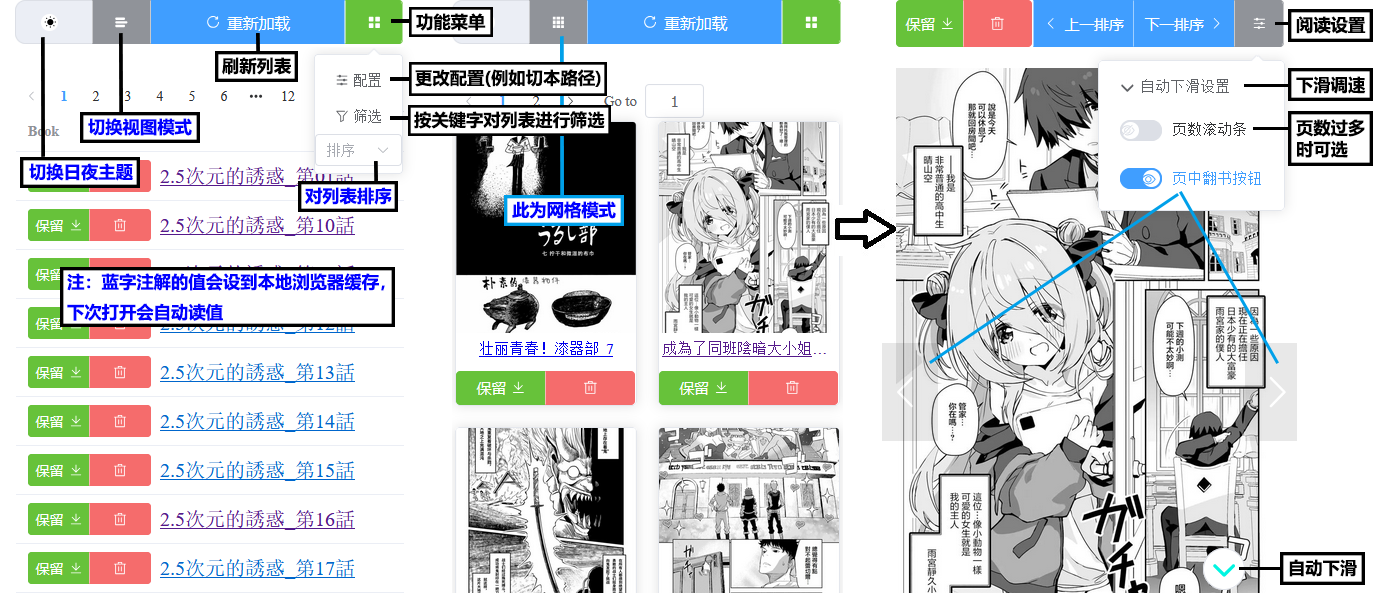
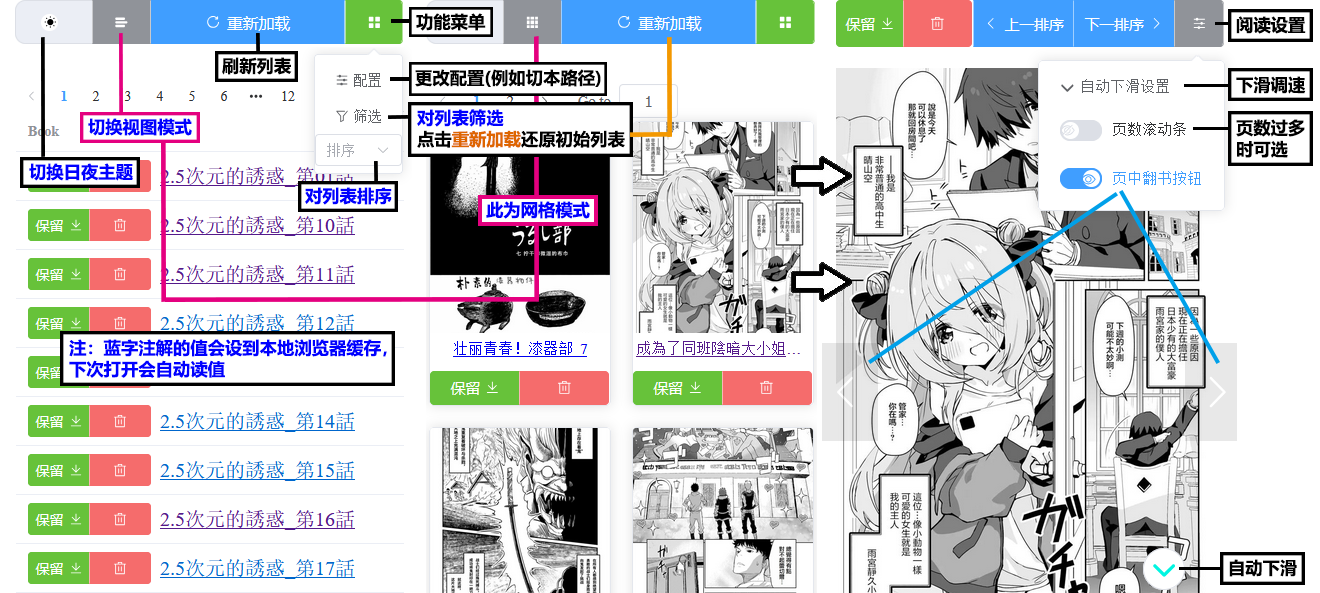
improve: filter turn to localStorage

diff --git a/frontend/src/view/books_list.vue b/frontend/src/view/books_list.vue
@@ -2,7 +2,7 @@
     <el-container>
       <el-header>
         <TopBtnGroup :reload="reload" :items="bookList" :filtered-items="filteredBookList" :handle-conf="handleConf" 
-                     v-model="isListMode" @send_sort="sv_sort"/>
+                     :handle-filter="handleFilter" v-model="isListMode" @send_sort="sv_sort"/>
       </el-header>
       <el-main>
         <el-scrollbar>
@@ -71,7 +71,17 @@
     import bookHandleBtn from '@/components/bookHandleBtn.vue'
 
     const isListMode = ref(true);
+    const filterKeyword = ref('');
     
+    // 添加过滤方法
+    const applyFilter = (data) => {
+      if (filterKeyword.value) {
+        filteredBookList.arr = data.filter(item => item.book_name.includes(filterKeyword.value))
+      } else {
+        filteredBookList.arr = data
+      }
+    }
+
     // ------------------------后端交互 & 数据处理
     const getBooks = async(callBack) => {
       const params = {sort: sortVal.value};
@@ -130,14 +140,24 @@
         sortVal.value = savedSort
       }
       
+      // 从 localStorage 读取筛选关键字
+      const savedFilter = localStorage.getItem('filterKeyword')
+      if (savedFilter) {
+        filterKeyword.value = savedFilter
+      }
+      
       getBooks(callBack)
       function callBack(data){
         bookList.arr = data
-        filteredBookList.arr = data
+        applyFilter(data)
       }
     }
     init()
-    const reload = init
+    const reload = () => {
+      filterKeyword.value = ''
+      localStorage.removeItem('filterKeyword')
+      init()
+    }
     function retainCallBack(done, path){
         notification('已移至保留['+done+']', 'success', path)
         reload()
@@ -161,6 +181,13 @@
     function sv_sort(val){
       sortVal.value = val
       reload()
+    }
+
+    // 添加筛选方法
+    const handleFilter = (keyword) => {
+      filterKeyword.value = keyword
+      localStorage.setItem('filterKeyword', keyword)
+      applyFilter(bookList.arr)
     }
 
 </script>

diff --git a/frontend/src/view/book.vue b/frontend/src/view/book.vue
@@ -26,7 +26,7 @@
 </template>
 
 <script setup>
-    import {backend,bookList} from '@/static/store.js'
+    import {backend,bookList,filteredBookList} from '@/static/store.js'
     import axios from 'axios'
     import {useRoute,useRouter} from 'vue-router'
     import {reactive,markRaw,computed} from "vue"
@@ -52,7 +52,7 @@
         })
     }
     const bookIndex = computed(() => {
-      return bookList.arr.findIndex(item => item.book_name === route.query.book)
+      return filteredBookList.arr.findIndex(item => item.book_name === route.query.book)
     });
     const init = (_book) => {
       getBook(_book, callBack)
@@ -66,8 +66,12 @@
       router.replace({path:'book',query:{book:_book}})
       init(_book)
     }
-    function previousBook(){triggerInit(bookList.arr[bookIndex.value-1].book_name)}
-    function nextBook(){triggerInit(bookList.arr[bookIndex.value+1].book_name)}
+    function previousBook(){
+        triggerInit(filteredBookList.arr[bookIndex.value-1].book_name)
+    }
+    function nextBook(){
+        triggerInit(filteredBookList.arr[bookIndex.value+1].book_name)
+    }
 
     function retainCallBack(done, path) {MsgOpen(done, Finished, path)}
     function removeCallBack(done, path) {MsgOpen(done, Warning, path)}

diff --git a/frontend/src/components/TopBtnGroup.vue b/frontend/src/components/TopBtnGroup.vue
@@ -83,7 +83,9 @@ const props = defineProps({
   modelValue: {type: Boolean, required: true},
   reload:{type: Function, required: true},
   handleConf:{type: Function, required: false},
-  items: {type: Object, required: false}, filteredItems: {type: Object, required: false}
+  items: {type: Object, required: false}, 
+  filteredItems: {type: Object, required: false},
+  handleFilter: {type: Function, required: false}
 })
 
 const emit = defineEmits(['send_sort', 'update:modelValue'])
@@ -162,7 +164,11 @@ const open_filter = () => {
     roundButton: true
   })
     .then(({ value }) => {
-      props.filteredItems.arr = props.items.arr.filter(item => item.book_name.includes(value))
+      if (props.handleFilter) {
+        props.handleFilter(value)
+      } else {
+        props.filteredItems.arr = props.items.arr.filter(item => item.book_name.includes(value))
+      }
     })
     .catch(( v ) => {
       // debugger;

diff --git a/README.md b/README.md
@@ -90,6 +90,7 @@ npm start
 &emsp;✅作为切换项设至功能配置里，使用缓存而不是 conf.yml 值  
 &emsp;🔳一话非一列/卡片，而是做成弹出模组  
 ✅将 主题/视图模式/排序 的值设成本地缓存，下次打开保持使用习惯  
+✅将筛选值存进本地缓存，点击 重新加载 才能还原初始列表  
 🔳抛弃 release 发布包，使用 部署/更新/启动 多合一脚本处理，release 仅作为新功能/修复信息公告告示  
 🔳book的跳转至第N页，长篇的页数记录，后续手动/自动进入记录页  
 
